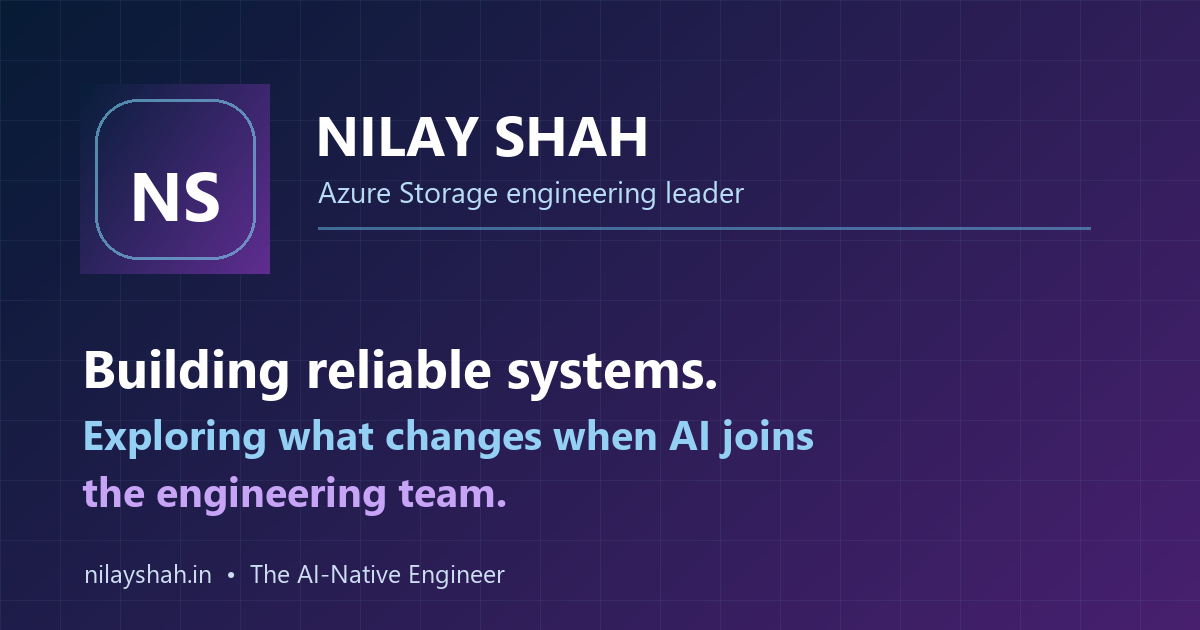
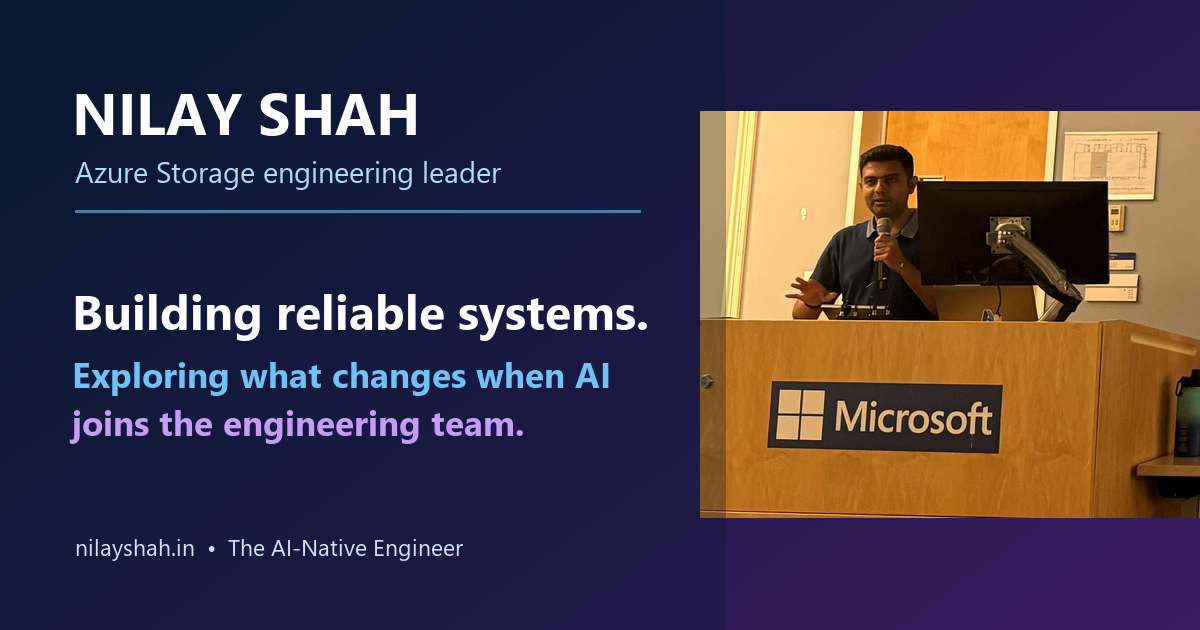
Personalize the homepage hero
Replace the abstract monogram graphic with a full speaking photo that preserves the Microsoft podium and logo, update responsive styling, and align the social preview with the personal visual.

diff --git a/assets/css/extended/home.css b/assets/css/extended/home.css
@@ -176,98 +176,58 @@
   content: "";
 }
 
-.hero-visual {
+.hero-portrait {
   position: relative;
-  min-height: 480px;
+  margin: 0;
   overflow: hidden;
   border: 1px solid rgba(96, 170, 225, 0.24);
   border-radius: 40px;
-  background:
-    radial-gradient(circle at 28% 20%, rgba(54, 160, 230, 0.28), transparent 34%),
-    radial-gradient(circle at 78% 70%, rgba(124, 72, 194, 0.28), transparent 35%),
-    linear-gradient(145deg, #0b1f3a, #1b1740);
+  background: linear-gradient(145deg, #0b1f3a, #1b1740);
   box-shadow: 0 30px 80px rgba(8, 29, 54, 0.22);
 }
 
-.visual-grid {
+.hero-portrait::after {
   position: absolute;
-  inset: 0;
-  opacity: 0.17;
-  background-image:
-    linear-gradient(rgba(255, 255, 255, 0.35) 1px, transparent 1px),
-    linear-gradient(90deg, rgba(255, 255, 255, 0.35) 1px, transparent 1px);
-  background-size: 42px 42px;
-  mask-image: radial-gradient(circle, #000 20%, transparent 75%);
+  inset: 0 0 112px;
+  background:
+    linear-gradient(180deg, transparent 68%, rgba(6, 20, 43, 0.38) 100%),
+    linear-gradient(125deg, rgba(22, 119, 200, 0.05), rgba(111, 66, 193, 0.12));
+  content: "";
+  pointer-events: none;
 }
 
-.visual-core {
-  position: absolute;
-  top: 50%;
-  left: 50%;
-  display: grid;
-  width: 150px;
-  height: 150px;
-  place-content: center;
-  border: 1px solid rgba(255, 255, 255, 0.35);
-  border-radius: 50%;
-  background: linear-gradient(145deg, rgba(36, 123, 194, 0.95), rgba(107, 61, 173, 0.95));
-  box-shadow: 0 0 70px rgba(99, 217, 245, 0.25);
+.hero-portrait img {
+  display: block;
+  width: 100%;
+  height: auto;
+  object-fit: contain;
+}
+
+.hero-portrait figcaption {
+  position: relative;
+  z-index: 2;
+  min-height: 112px;
+  padding: 22px 28px 24px;
+  background: linear-gradient(105deg, rgba(7, 28, 57, 0.98), rgba(53, 29, 83, 0.98));
   color: #fff;
-  transform: translate(-50%, -50%);
 }
 
-.visual-core span {
-  font-size: 2.65rem;
+.hero-portrait figcaption span {
+  display: block;
+  margin-bottom: 6px;
+  color: #8bdcf1;
+  font-size: 0.72rem;
   font-weight: 800;
-  letter-spacing: -0.05em;
-  text-align: center;
+  letter-spacing: 0.12em;
+  text-transform: uppercase;
 }
 
-.visual-core small {
-  margin-top: 2px;
-  font-size: 0.58rem;
-  font-weight: 700;
-  letter-spacing: 0.18em;
+.hero-portrait figcaption strong {
+  display: block;
+  max-width: 390px;
+  font-size: 1rem;
+  line-height: 1.45;
 }
-
-.orbit {
-  position: absolute;
-  top: 50%;
-  left: 50%;
-  border: 1px solid rgba(125, 205, 255, 0.32);
-  border-radius: 50%;
-  transform: translate(-50%, -50%);
-}
-
-.orbit-one {
-  width: 280px;
-  height: 280px;
-}
-
-.orbit-two {
-  width: 410px;
-  height: 410px;
-  border-style: dashed;
-  border-color: rgba(180, 130, 255, 0.25);
-}
-
-.visual-node {
-  position: absolute;
-  padding: 9px 14px;
-  border: 1px solid rgba(255, 255, 255, 0.25);
-  border-radius: 999px;
-  background: rgba(10, 26, 56, 0.78);
-  box-shadow: 0 8px 24px rgba(0, 0, 0, 0.18);
-  color: #eaf7ff;
-  font-size: 0.78rem;
-  font-weight: 700;
-  backdrop-filter: blur(10px);
-}
-
-.node-ai { top: 15%; left: 16%; }
-.node-cloud { top: 22%; right: 11%; }
-.node-reliability { bottom: 17%; left: 9%; }
-.node-leadership { right: 10%; bottom: 12%; }
 
 .home-section {
   padding: 88px 0;
@@ -583,10 +543,6 @@
     gap: 42px;
   }
 
-  .hero-visual {
-    min-height: 410px;
-  }
-
   .focus-grid {
     grid-template-columns: repeat(2, 1fr);
   }
@@ -635,14 +591,13 @@
     display: grid;
   }
 
-  .hero-visual {
-    min-height: 360px;
+  .hero-portrait {
     border-radius: 28px;
   }
 
-  .orbit-two {
-    width: 330px;
-    height: 330px;
+  .hero-portrait figcaption {
+    min-height: 104px;
+    padding: 20px 22px 22px;
   }
 
   .publication-card {

diff --git a/layouts/home.html b/layouts/home.html
@@ -46,19 +46,13 @@
       </ul>
     </div>
 
-    <div class="hero-visual" aria-hidden="true">
-      <div class="visual-grid"></div>
-      <div class="orbit orbit-one"></div>
-      <div class="orbit orbit-two"></div>
-      <div class="visual-core">
-        <span>NS</span>
-        <small>ENGINEERING</small>
-      </div>
-      <div class="visual-node node-ai">AI-native</div>
-      <div class="visual-node node-cloud">Cloud</div>
-      <div class="visual-node node-reliability">Reliability</div>
-      <div class="visual-node node-leadership">Leadership</div>
-    </div>
+    <figure class="hero-portrait">
+      <img src="/images/nilay-shah-speaking.jpg" alt="Nilay Shah speaking at a Microsoft engineering event" width="1200" height="1500">
+      <figcaption>
+        <span>Engineering leadership in practice</span>
+        <strong>Cloud systems · Reliability · AI-native transformation</strong>
+      </figcaption>
+    </figure>
   </section>
 
   <section class="home-section publication-section" aria-labelledby="publication-title">
